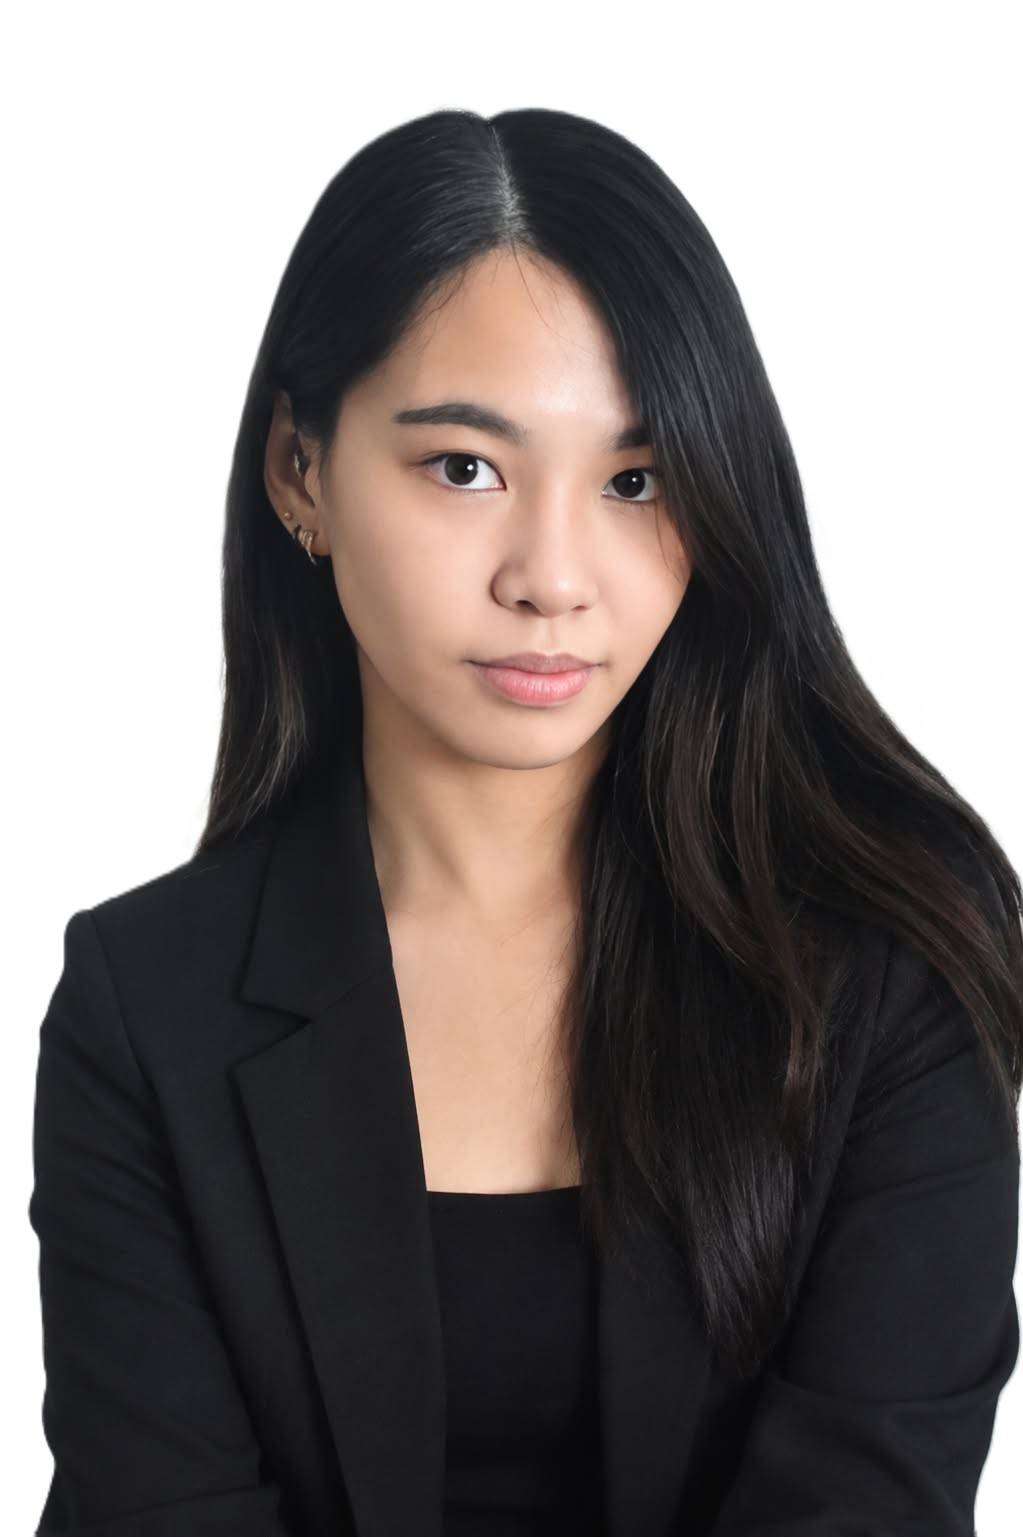
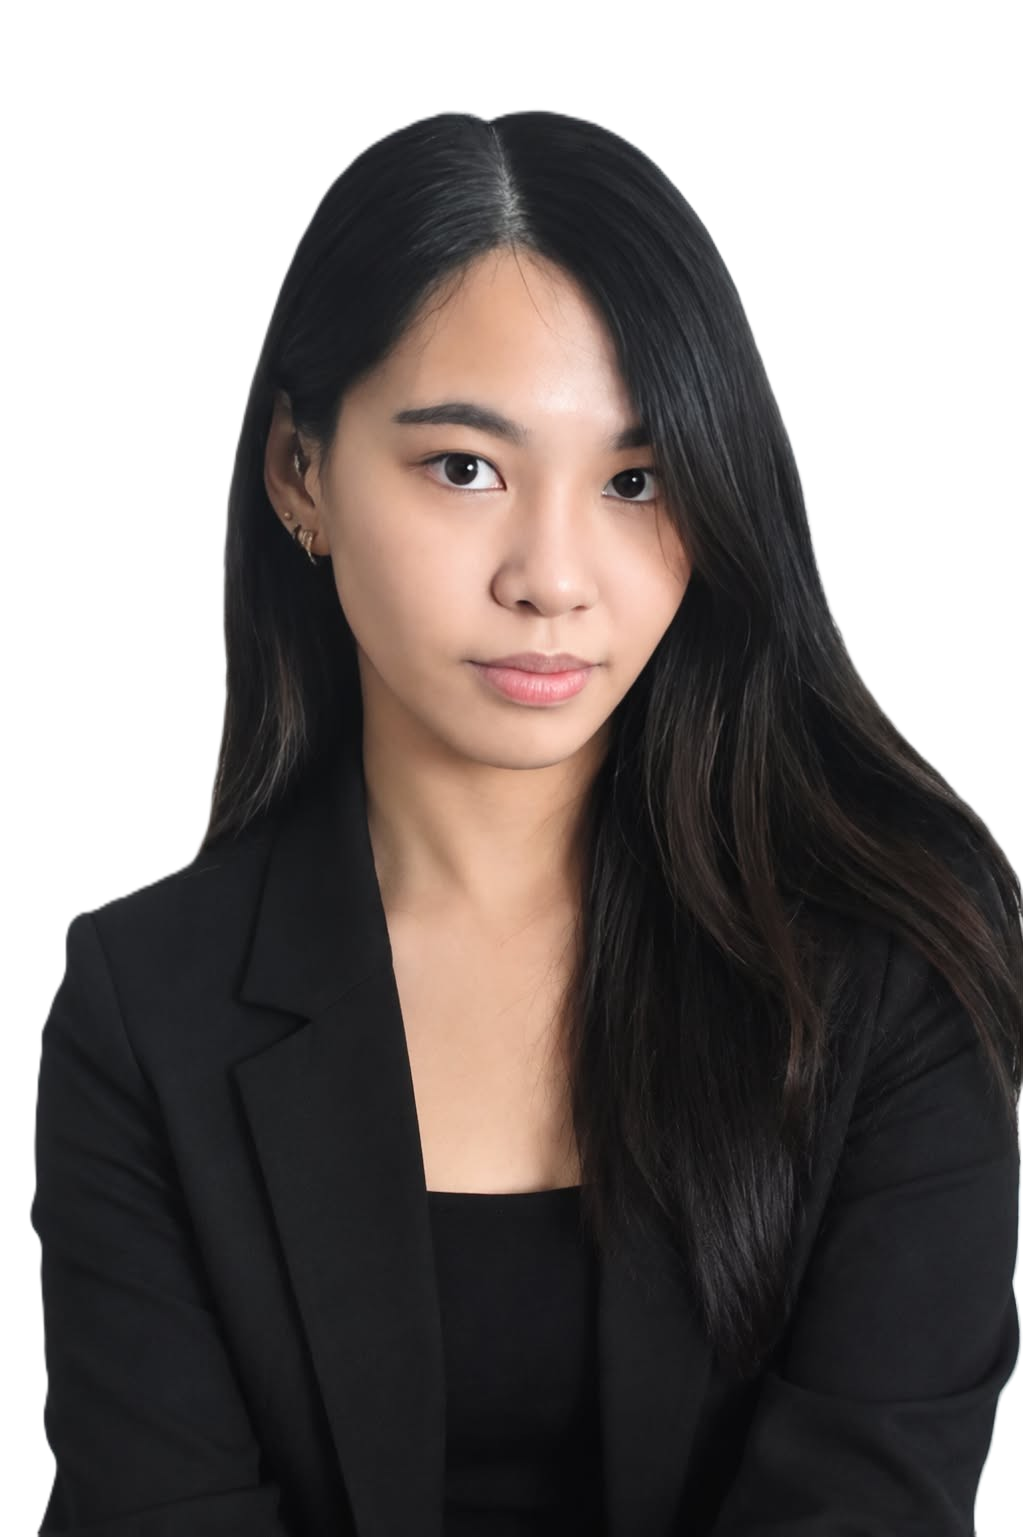
fix loading state and landing page

diff --git a/basic/style.css b/basic/style.css
@@ -285,9 +285,54 @@ nav.nav-on-dark .nav-logo img {
   will-change: transform, clip-path, opacity, width, margin;
 }
 
-/* Name/profession/bio — positioned independently of the images so it
-   doesn't steal layout width from the fan-out animation. Sits behind
-   the overlay (like the original hero-header) until the overlay wipes. */
+.hero-images .img.hero-img {
+  position: relative;
+}
+
+.hero-images .img.hero-img::before {
+  content: '';
+  position: absolute;
+  top: 50%;
+  left: 50%;
+  width: 130%;
+  height: 150%;
+  transform: translate(-50%, -50%);
+  border-radius: 30%;
+  background: radial-gradient(
+    circle,
+    rgba(79, 79, 79, 0.55) 0%,
+    rgba(79, 79, 79, 0.25) 55%,
+    rgba(79, 79, 79, 0) 75%
+  );
+  z-index: -1;
+  pointer-events: none;
+}
+
+.hero-images .img.hero-img .face-swap {
+  position: relative;
+  width: 100%;
+  height: 100%;
+  overflow: hidden;
+}
+
+.hero-images .img.hero-img .face-swap img {
+  position: absolute;
+  top: 0;
+  left: 0;
+  width: 100%;
+  height: 100%;
+  object-fit: cover;
+}
+
+.hero-images .img.hero-img .face-mockup {
+  z-index: 2;
+  will-change: transform;
+}
+
+.hero-images .img.hero-img .face-real {
+  z-index: 1;
+}
+
 .hero-text {
   position: absolute;
   top: 50%;

diff --git a/basic/index.html b/basic/index.html
@@ -47,7 +47,12 @@
     <div class="hero-images">
       <div class="img"><img src="assets/mockup-1.jpg" alt=""></div>
       <div class="img"><img src="assets/mockup-3.jpg" alt=""></div>
-      <div class="img hero-img"><img src="assets/red-main.png" alt=""></div>
+      <div class="img hero-img">
+        <div class="face-swap">
+          <img src="assets/mockup-2.jpg" alt="" class="face-mockup">
+          <img src="assets/red-main.png" alt="" class="face-real">
+        </div>
+      </div>
       <div class="img"><img src="assets/mockup-5.jpg" alt=""></div>
       <div class="img"><img src="assets/mockup-8.jpg" alt=""></div>
     </div>

diff --git a/basic/script.js b/basic/script.js
@@ -162,6 +162,11 @@ if (!gsap) {
       duration: 1,
       ease: "hop",
     }, "-=0.5")
+    .to(".face-mockup", {
+      yPercent: -100,
+      duration: 1,
+      ease: "hop",
+    }, "-=0.2")
     .to(".full-name .word", {
       y: "0",
       duration: 0.75,
